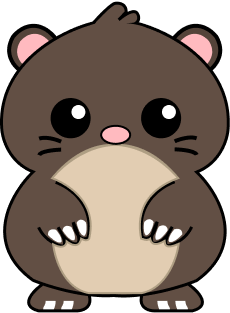
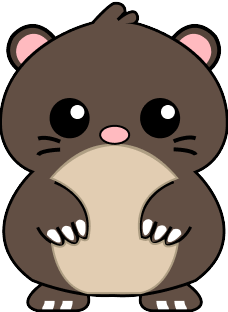
topos done. son de distinto tamaño y queda raro pero bno

diff --git a/juegos/juego8/juego8.js b/juegos/juego8/juego8.js
@@ -68,7 +68,7 @@ function golpear(martillo, angulo) {
 
     setTimeout(() => {
         martillo.style.transform = `translate(${moverX}px, ${moverY}px) rotate(${angulo}deg)`;
-        topoActual.src = "../../assets/animales/topo-mareado.png"; 
+        topoActual.src = "../../assets/personajes/animales/topo-mareado.png"; 
     }, 500);
 
     if (turno === 1){
@@ -97,7 +97,7 @@ function golpear(martillo, angulo) {
 
         golpeando = false;
 
-        topoActual.src = "../../assets/animales/topo.png";
+        topoActual.src = "../../assets/personajes/animales/topo.png";
 
         sacarTopo();
     }, 2300);
